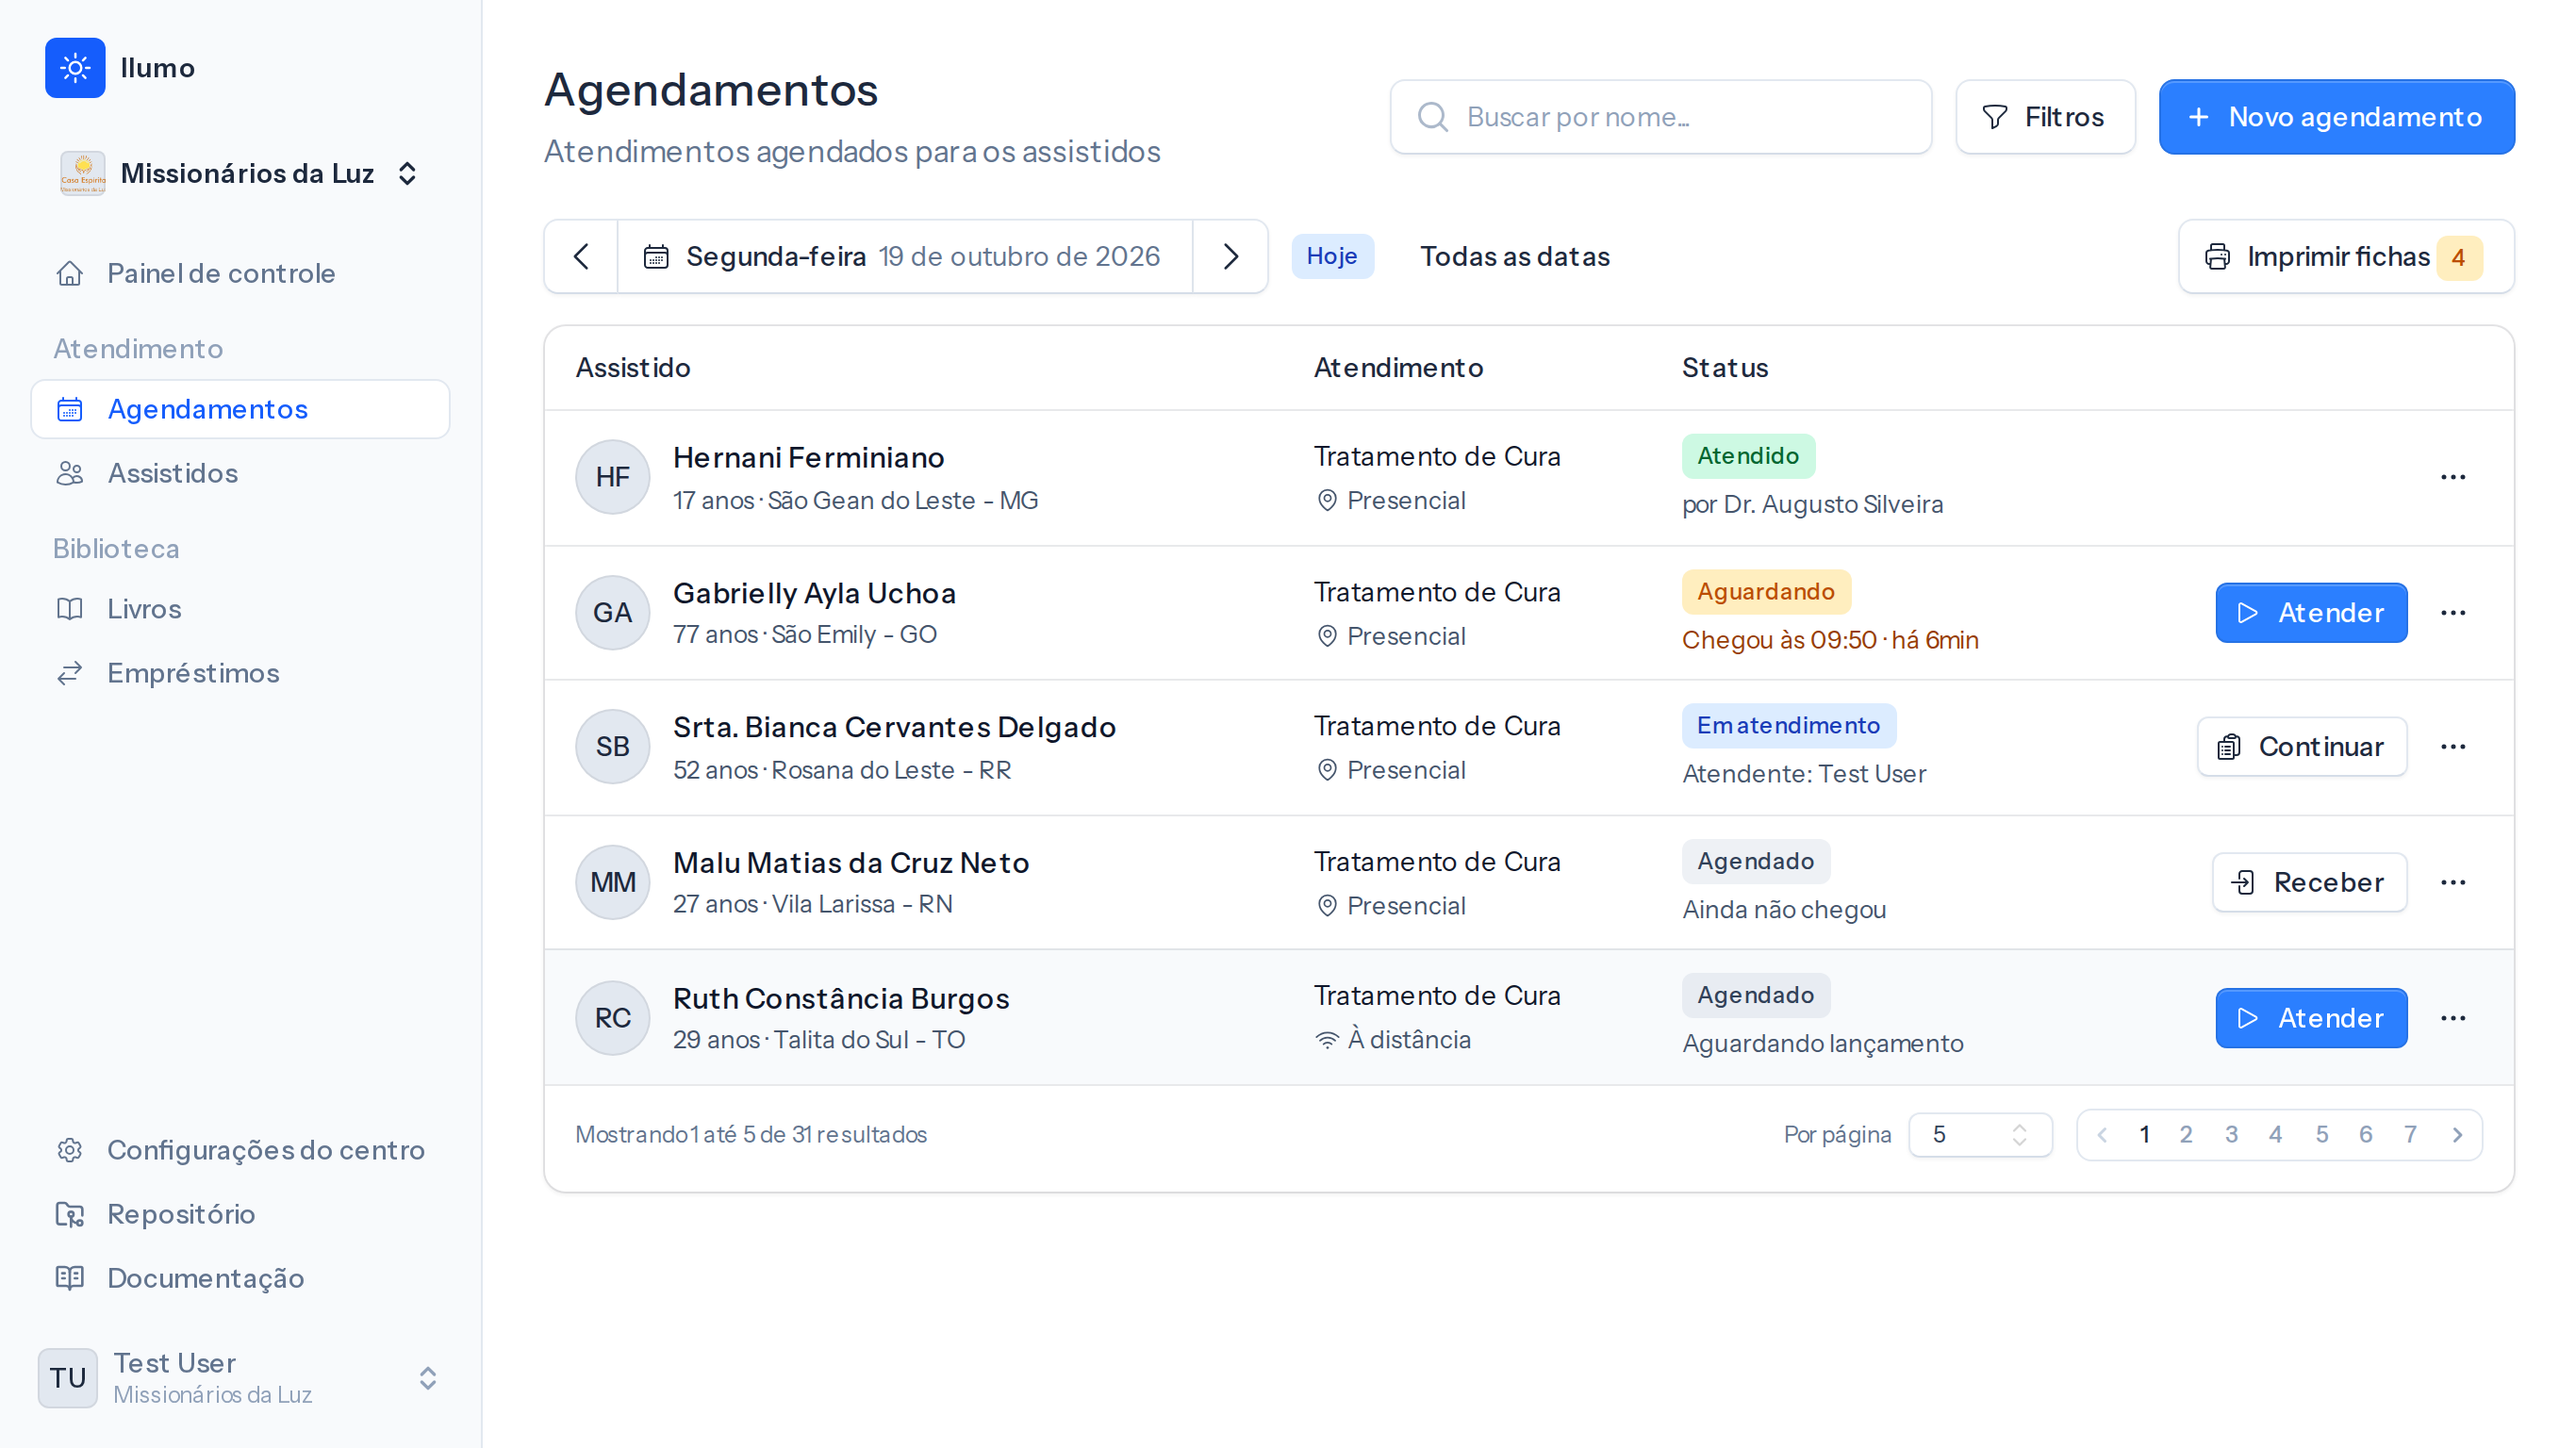
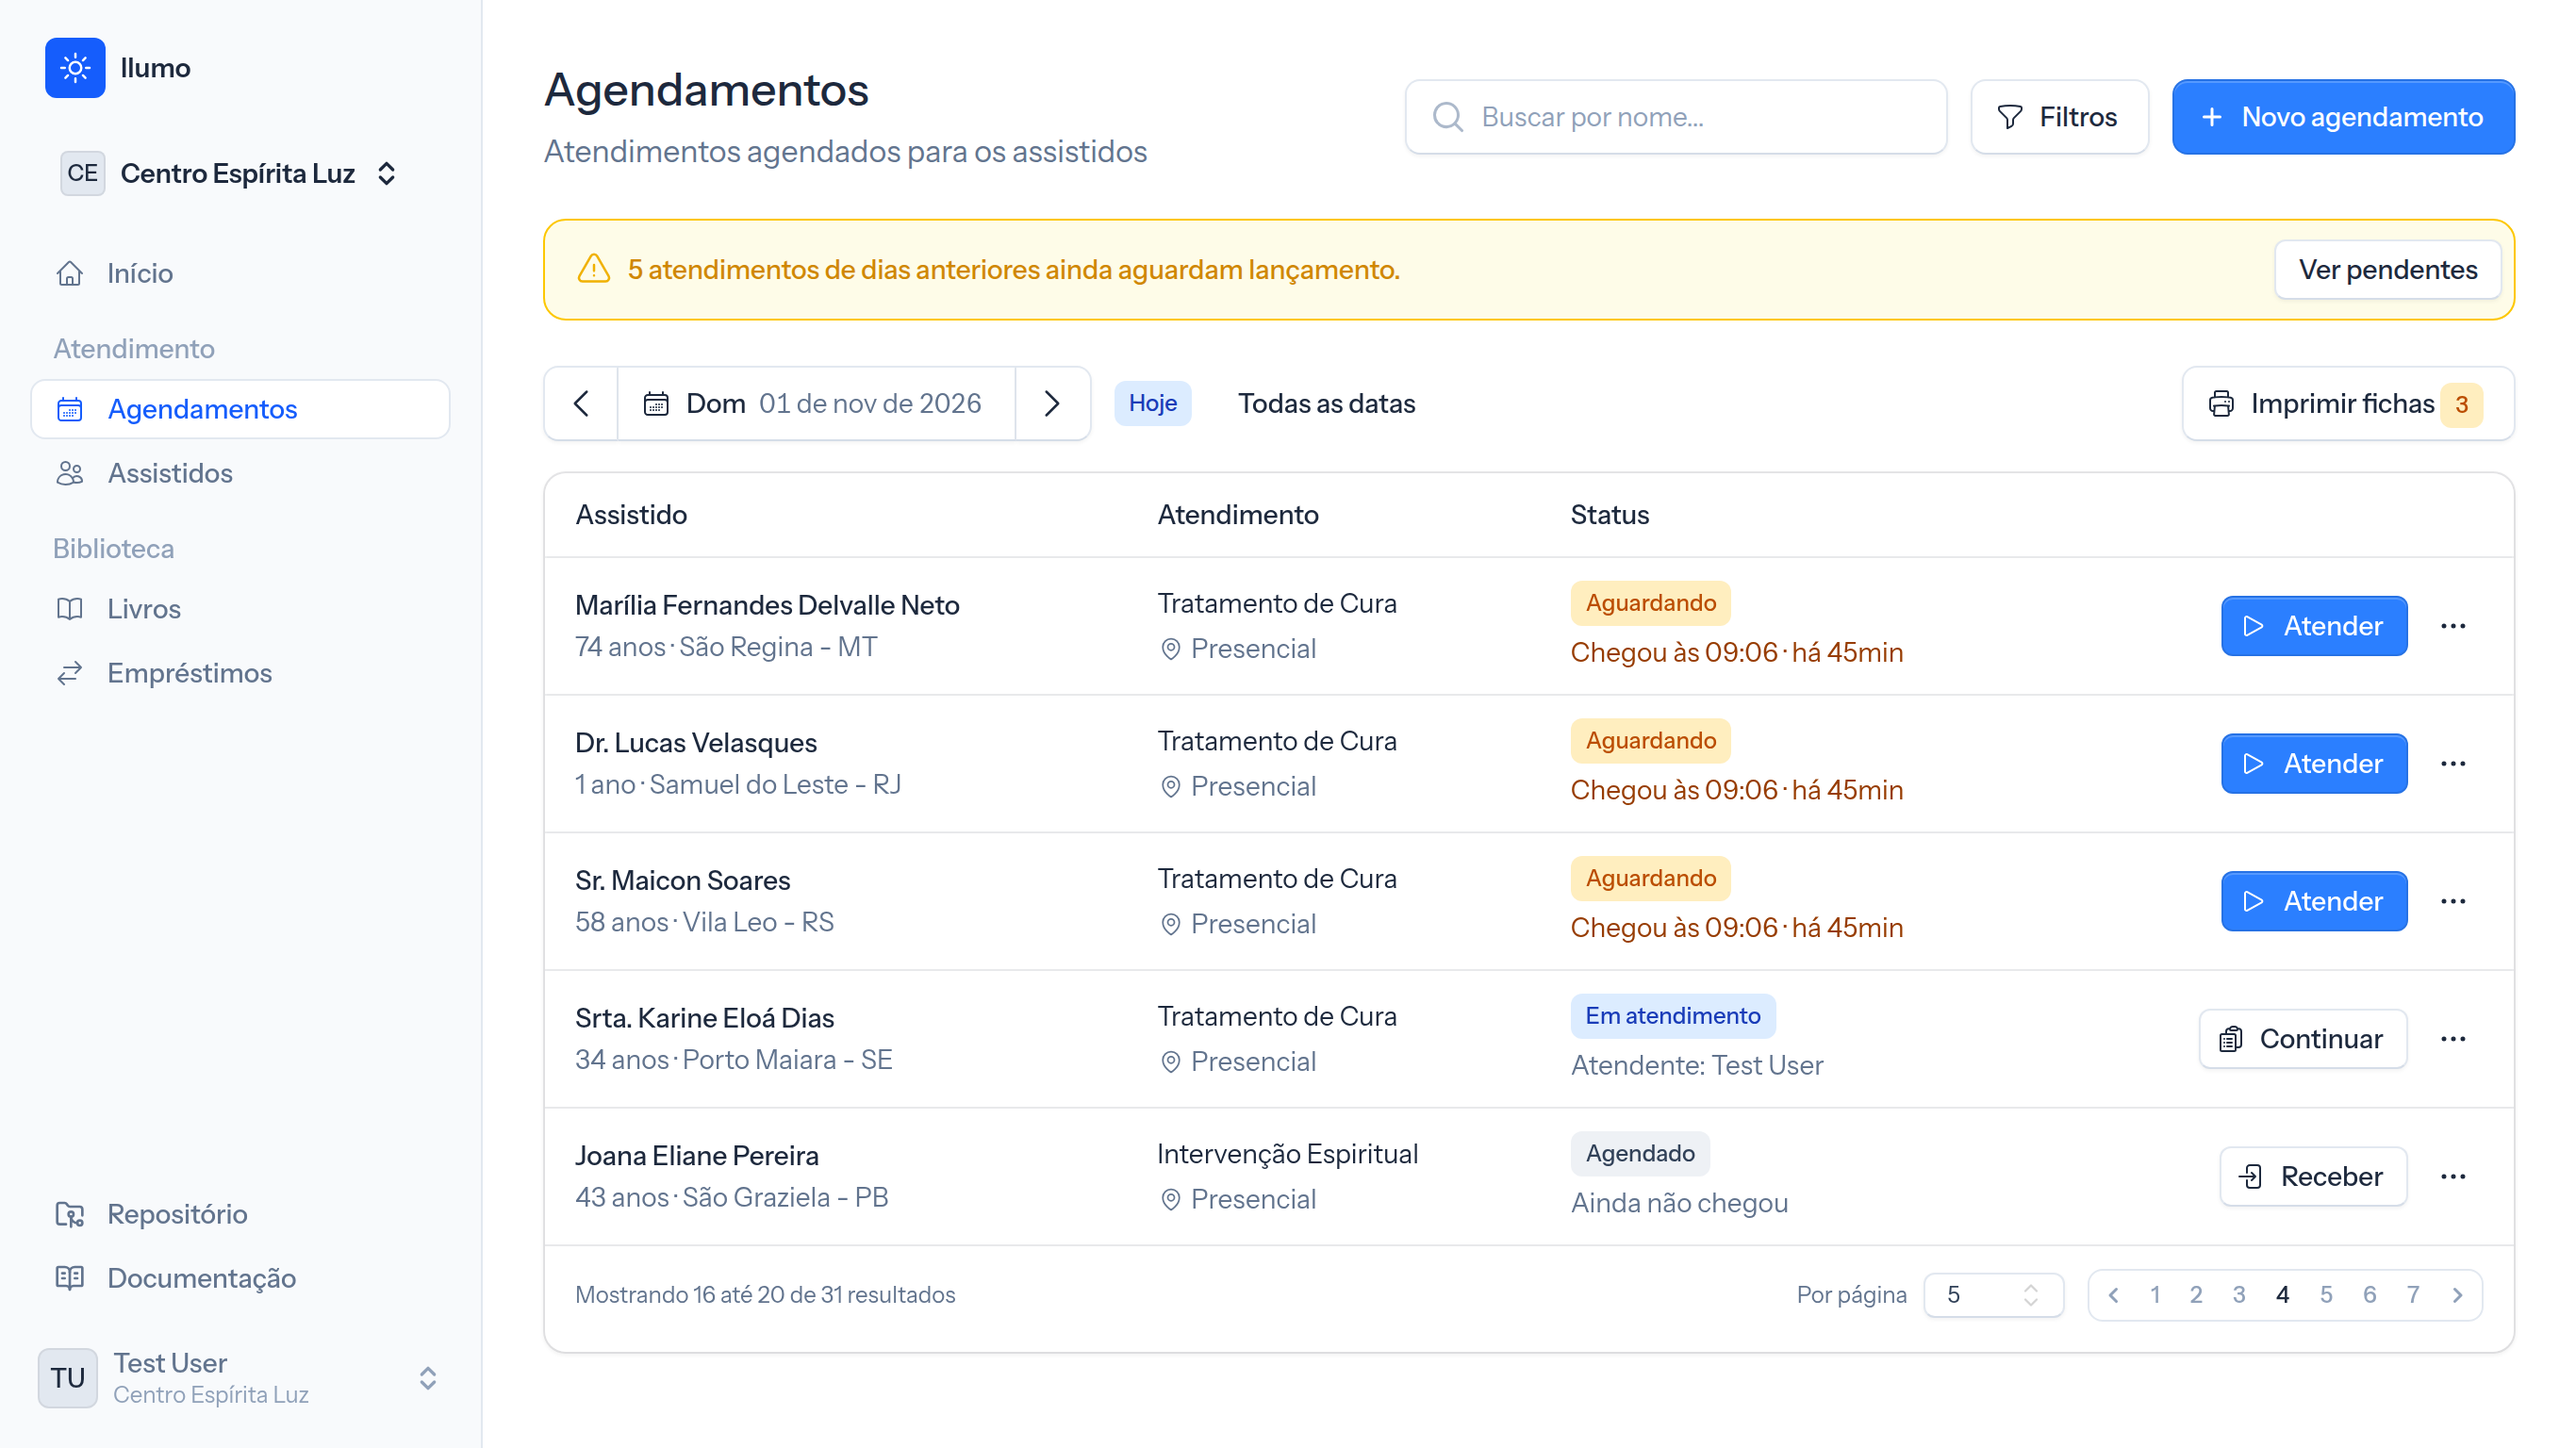
Add screenshots of the main screens to the README

diff --git a/README.en.md b/README.en.md
@@ -62,6 +62,33 @@ There are two ways to use llumo, with the same features:
 
 The core domain flow is: **assisted person → scheduling → session**. The assisted person is registered, a session is scheduled and, in the record of that session, the team notes the spiritual mentor who acted through the medium and the fluidics prescribed. Mentors are protective spirits and guides — more evolved spirits who guide, protect and support a person's moral and spiritual growth, carrying out the spiritual healing during the session. The fluidics stay linked to the session in which they were prescribed, forming the assisted person's history.
 
+## Screenshots
+
+<table>
+  <tr>
+    <td width="50%">
+      <img src="art/screenshots/inicio.png" alt="llumo's home screen: progress of the day's sessions, assisted persons at the front desk in order of arrival, pending items and overdue loans">
+      <p align="center"><em>Home: the center's day, the front desk and what needs attention.</em></p>
+    </td>
+    <td width="50%">
+      <img src="art/screenshots/atendimento.png" alt="llumo's session record with the mentor, fluidic remedies and dosage filled in, next to the assisted person's details">
+      <p align="center"><em>Session record: mentor, fluidic remedies, guidance and passes.</em></p>
+    </td>
+  </tr>
+  <tr>
+    <td width="50%">
+      <img src="art/screenshots/assistido.png" alt="An assisted person's history in llumo: a timeline of past sessions with fluidic remedies, guidance, passes and notes">
+      <p align="center"><em>Assisted person's history: everything done in each session.</em></p>
+    </td>
+    <td width="50%">
+      <img src="art/screenshots/biblioteca.png" alt="llumo's library collection: books with authors, categories and available copies">
+      <p align="center"><em>Library: the center's collection and available copies.</em></p>
+    </td>
+  </tr>
+</table>
+
+<p align="center"><em>The interface is in Brazilian Portuguese.</em></p>
+
 ## Stack
 
 PHP 8.3+ · Laravel 13 · Livewire 4 (single-file components) · Flux UI 2 · Tailwind CSS 4 · Laravel Fortify · Laravel PDF (DomPDF) · Pest 5 · PHPStan level 7 · Pint · SQLite (default) · Vite 8 / vite-plus

diff --git a/README.md b/README.md
@@ -62,6 +62,31 @@ Há duas formas de usar o llumo, com os mesmos recursos:
 
 O fluxo central do domínio é: **assistido → agendamento → atendimento**. O assistido é cadastrado, tem um atendimento agendado e, no registro desse atendimento, anotam-se o mentor espiritual que atuou através do médium e os fluídicos prescritos por ele. Os mentores são espíritos protetores e guias — espíritos mais evoluídos que orientam, protegem e auxiliam na evolução moral e espiritual, realizando o tratamento espiritual e de cura durante o atendimento. Os fluídicos ficam vinculados ao atendimento em que foram prescritos, formando o histórico do assistido.
 
+## Telas
+
+<table>
+  <tr>
+    <td width="50%">
+      <img src="art/screenshots/inicio.png" alt="Tela de início do llumo: progresso dos atendimentos do dia, assistidos na recepção por ordem de chegada, pendências e empréstimos atrasados">
+      <p align="center"><em>Início: o dia da casa, a recepção e o que precisa de atenção.</em></p>
+    </td>
+    <td width="50%">
+      <img src="art/screenshots/atendimento.png" alt="Ficha de atendimento do llumo com mentor, fluídicos e posologia preenchidos, ao lado dos dados do assistido">
+      <p align="center"><em>Ficha de atendimento: mentor, fluídicos, orientações e passes.</em></p>
+    </td>
+  </tr>
+  <tr>
+    <td width="50%">
+      <img src="art/screenshots/assistido.png" alt="Histórico do assistido no llumo: linha do tempo dos atendimentos anteriores com fluídicos, orientações, passes e observações">
+      <p align="center"><em>Histórico do assistido: tudo o que foi feito em cada atendimento.</em></p>
+    </td>
+    <td width="50%">
+      <img src="art/screenshots/biblioteca.png" alt="Acervo da biblioteca no llumo: livros com autores, categorias e exemplares disponíveis">
+      <p align="center"><em>Biblioteca: o acervo da casa e os exemplares disponíveis.</em></p>
+    </td>
+  </tr>
+</table>
+
 ## Stack
 
 PHP 8.3+ · Laravel 13 · Livewire 4 (single-file components) · Flux UI 2 · Tailwind CSS 4 · Laravel Fortify · Laravel PDF (DomPDF) · Pest 5 · PHPStan level 7 · Pint · SQLite (padrão) · Vite 8 / vite-plus
